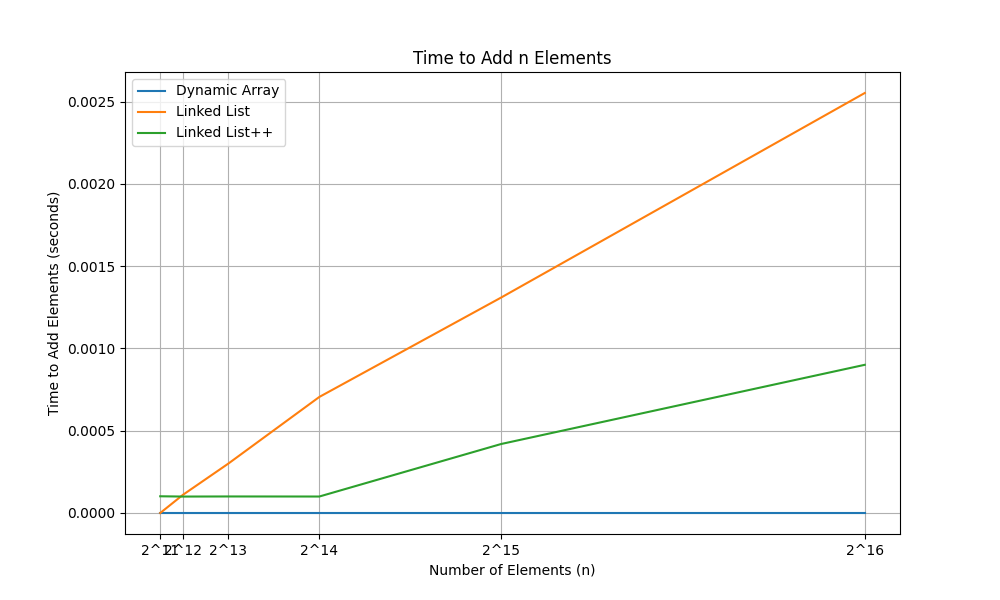
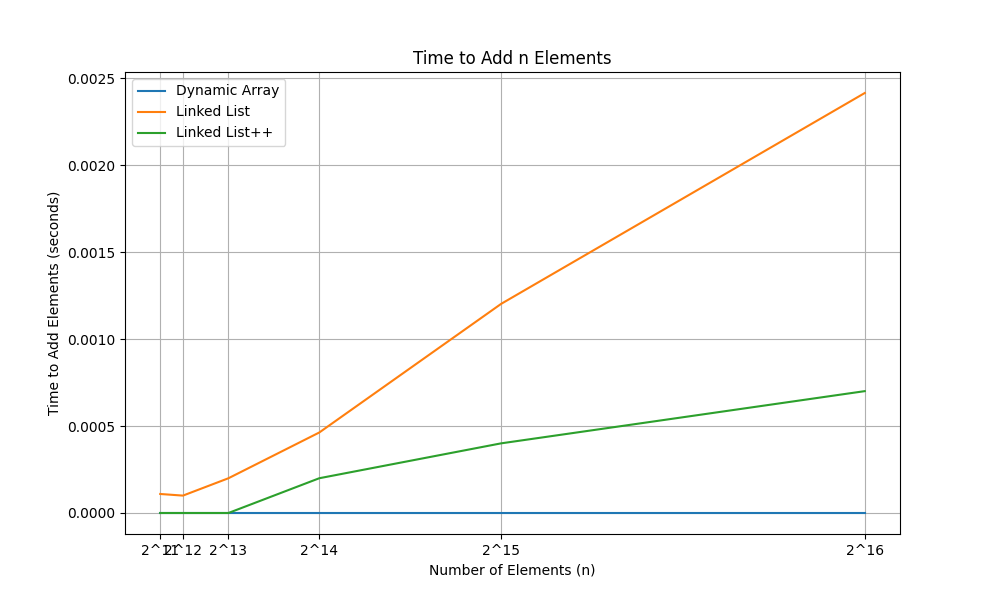
version2.0 correct k

diff --git a/hw1/plot_script1.py b/hw1/plot_script1.py
@@ -50,7 +50,7 @@ def main():
             f.write("n,time\n")  # CSV header
 
     # 迭代 k 值從 11 到 25，並計算對應的 n = 2^k
-    for k in range(11, 20):
+    for k in range(11, 26):
         n_value = int(math.pow(2, k))
         print(f"Running for n = 2^{k} = {n_value}")
         

diff --git a/hw1/plot_script1_1.py b/hw1/plot_script1_1.py
@@ -51,7 +51,7 @@ def main():
             f.write("n,time\n")  # CSV header
 
     # 迭代 k 值從 11 到 25，並計算對應的 n = 2^k
-    for k in range(11, 17):
+    for k in range(11, 26):
         n_value = int(math.pow(2, k))
         print(f"Running for n = 2^{k} = {n_value}")
         
